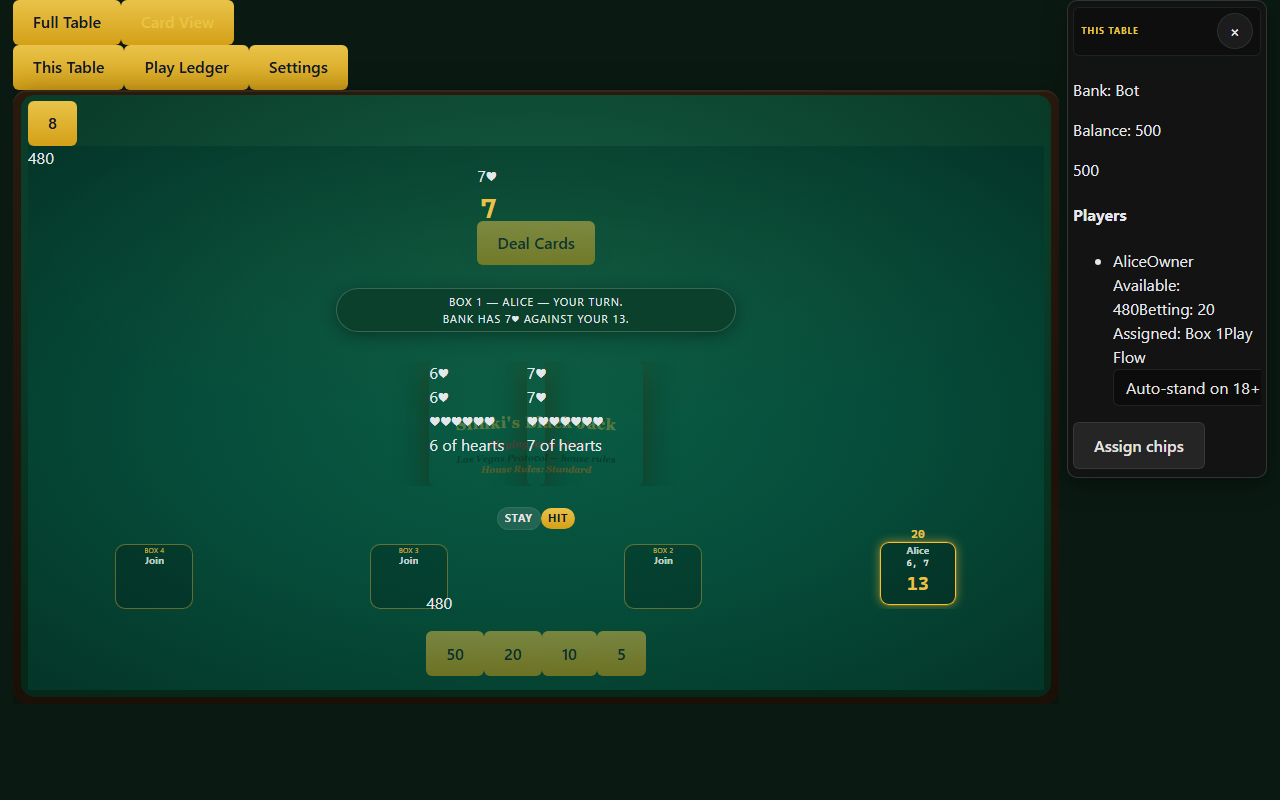
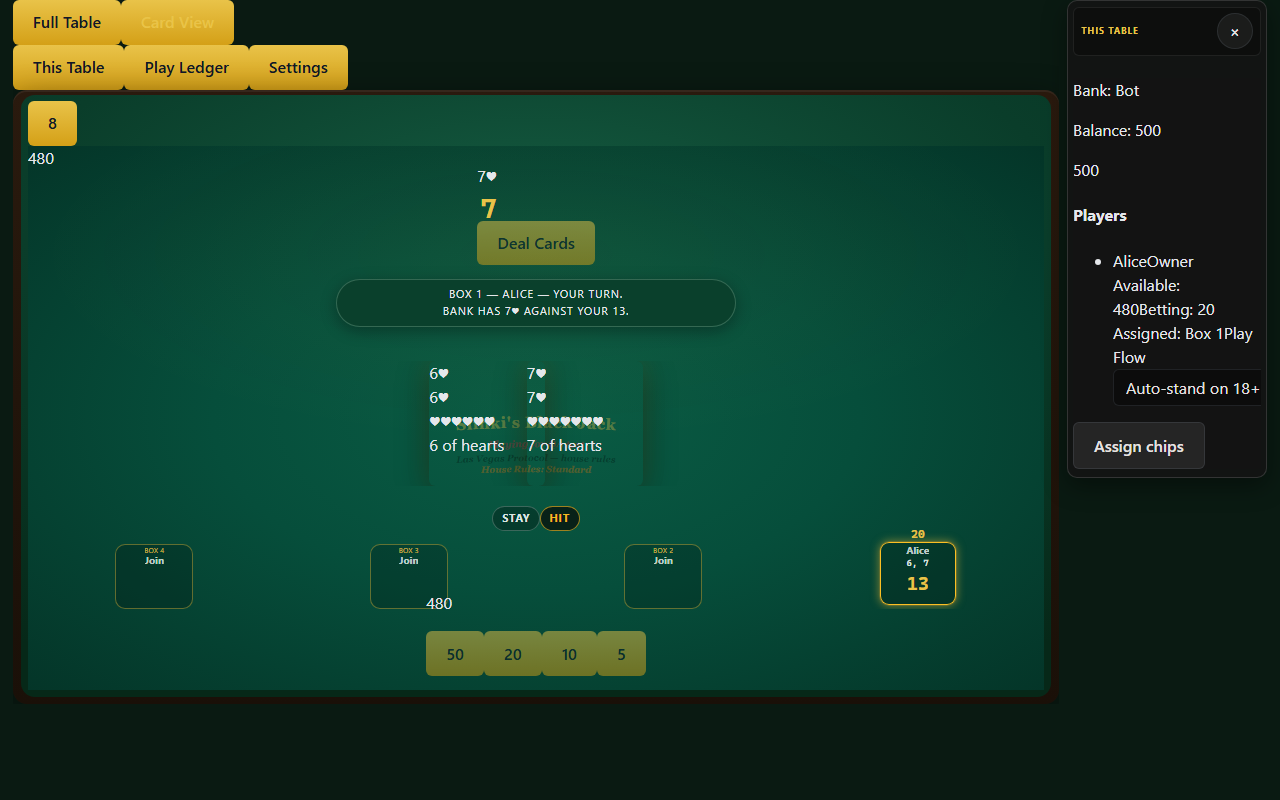
Align desktop command spacing and card view actions

Changed region(s): [[0.3438, 0.3438, 0.5, 0.4062], [0.375, 0.625, 0.4688, 0.6875]]

diff --git a/src/styles/bj-full-table-card-area.css b/src/styles/bj-full-table-card-area.css
@@ -346,6 +346,7 @@
 }
 
 .bj-view-full-desktop .bj-table-zone--actions .bj-player-actions,
+.bj-view-card-desktop .bj-table-zone--actions .bj-player-actions,
 .bj-view-full-mobile .bj-table-layout-shell > .bj-table-zone--actions .bj-player-actions {
   width: 100%;
   max-width: var(--bj-table-center-column-max-width);
@@ -353,6 +354,7 @@
 }
 
 .bj-view-full-desktop .bj-table-zone--actions .bj-table-actions,
+.bj-view-card-desktop .bj-table-zone--actions .bj-table-actions,
 .bj-view-full-mobile .bj-table-layout-shell > .bj-table-zone--actions .bj-table-actions {
   width: 100%;
   max-width: var(--bj-table-center-column-max-width);
@@ -363,12 +365,14 @@
 }
 
 .bj-view-full-desktop .bj-table-zone--actions .bj-table-actions__row,
+.bj-view-card-desktop .bj-table-zone--actions .bj-table-actions__row,
 .bj-view-full-mobile .bj-table-layout-shell > .bj-table-zone--actions .bj-table-actions__row {
   justify-content: center;
   gap: 0.32rem;
 }
 
 .bj-view-full-desktop .bj-table-zone--actions .ds-btn--hit,
+.bj-view-card-desktop .bj-table-zone--actions .ds-btn--hit,
 .bj-view-full-mobile .bj-table-layout-shell > .bj-table-zone--actions .ds-btn--hit {
   background: rgb(8 22 16 / 0.82);
   color: rgb(251 191 36 / 0.98);
@@ -381,6 +385,7 @@
 }
 
 .bj-view-full-desktop .bj-table-zone--actions .ds-btn--stand,
+.bj-view-card-desktop .bj-table-zone--actions .ds-btn--stand,
 .bj-view-full-mobile .bj-table-layout-shell > .bj-table-zone--actions .ds-btn--stand {
   background: rgb(0 0 0 / 0.28);
   color: rgb(235 245 240 / 0.95);

diff --git a/src/components/blackjackPhaseLayoutParity.test.ts b/src/components/blackjackPhaseLayoutParity.test.ts
@@ -27,7 +27,7 @@ describe('blackjack phase layout parity (desktop shell)', () => {
       /\.bj-view-full-desktop,\s*\n\s*\.bj-view-card-desktop \{[\s\S]*--bj-desktop-zone-command-height:\s*5\.85rem/,
     );
     expect(SHELL_CSS).toMatch(
-      /\.bj-view-full-desktop,\s*\n\s*\.bj-view-card-desktop \{[\s\S]*--bj-desktop-dealer-command-gap:\s*1\.35rem/,
+      /\.bj-view-full-desktop,\s*\n\s*\.bj-view-card-desktop \{[\s\S]*--bj-desktop-dealer-command-gap:\s*0\.4125rem/,
     );
     expect(SHELL_CSS).toMatch(
       /\.bj-view-full-desktop,\s*\n\s*\.bj-view-card-desktop \{[\s\S]*--bj-desktop-zone-actions-height:\s*2\.5rem/,

diff --git a/src/components/cardViewLayoutGuards.test.ts b/src/components/cardViewLayoutGuards.test.ts
@@ -112,7 +112,7 @@ describe('Card View layout guards', () => {
     expect(SHARED_CSS).toContain('--bj-desktop-zone-command-height: 4rem');
     expect(SHARED_CSS).toContain('--bj-desktop-zone-actions-height: 2.9rem');
     expect(SHELL_CSS).toMatch(/--bj-desktop-zone-actions-height:\s*2\.5rem/);
-    expect(SHELL_CSS).toMatch(/--bj-desktop-dealer-command-gap:\s*1\.35rem/);
+    expect(SHELL_CSS).toMatch(/--bj-desktop-dealer-command-gap:\s*0\.4125rem/);
     expect(SHELL_CSS).not.toMatch(
       /\[data-bj-phase='betting'\][\s\S]*--bj-desktop-zone-actions-height:\s*1\.55rem/,
     );

diff --git a/src/styles/bj-blackjack-table-shell.css b/src/styles/bj-blackjack-table-shell.css
@@ -41,7 +41,7 @@
     --bj-card-hero-card-max-height: min(32vh, 13.25rem);
     --bj-cloth-svg-width: min(84%, 36rem);
     --bj-cloth-svg-max-height: 62%;
-    --bj-desktop-dealer-command-gap: 1.35rem;
+    --bj-desktop-dealer-command-gap: 0.4125rem;
     --bj-desktop-zone-actions-height: 2.5rem;
     --bj-desktop-actions-zone-padding-top: 1.56rem;
     --bj-desktop-actions-boxes-gap: 0.14rem;

diff --git a/docs/CHANGE_LOG.md b/docs/CHANGE_LOG.md
@@ -47,7 +47,7 @@ before the work is considered complete. This rule is also stated in `.cursorrule
 
 - **Card View dealer centering:** `.bj-dealer-area` centers `.dealer-block` on felt (Card View only); dealer cards/deal button within 5px of felt center at 1280×800.
 - **Hero cards:** Larger shell tokens + `@container bj-hero-cards` fit in `bj-card-desktop-hero-area.css` (≥90×125px target).
-- **Command gap:** Shared `--bj-desktop-dealer-command-gap: 1.35rem` (was 2.55rem) moves command closer to dealer/deal area.
+- **Command gap:** Shared `--bj-desktop-dealer-command-gap: 0.4125rem` (~15px closer to deal vs 1.35rem); Card View actions share Full Table Hit/Stay styles via `bj-full-table-card-area.css`.
 - **Command copy:** Turn line includes box + player name (`Box N — name — your turn.`); removed Hit/Stay option lines; only `Double available.` / `Split available.` / insurance copy when applicable.
 
 ---
